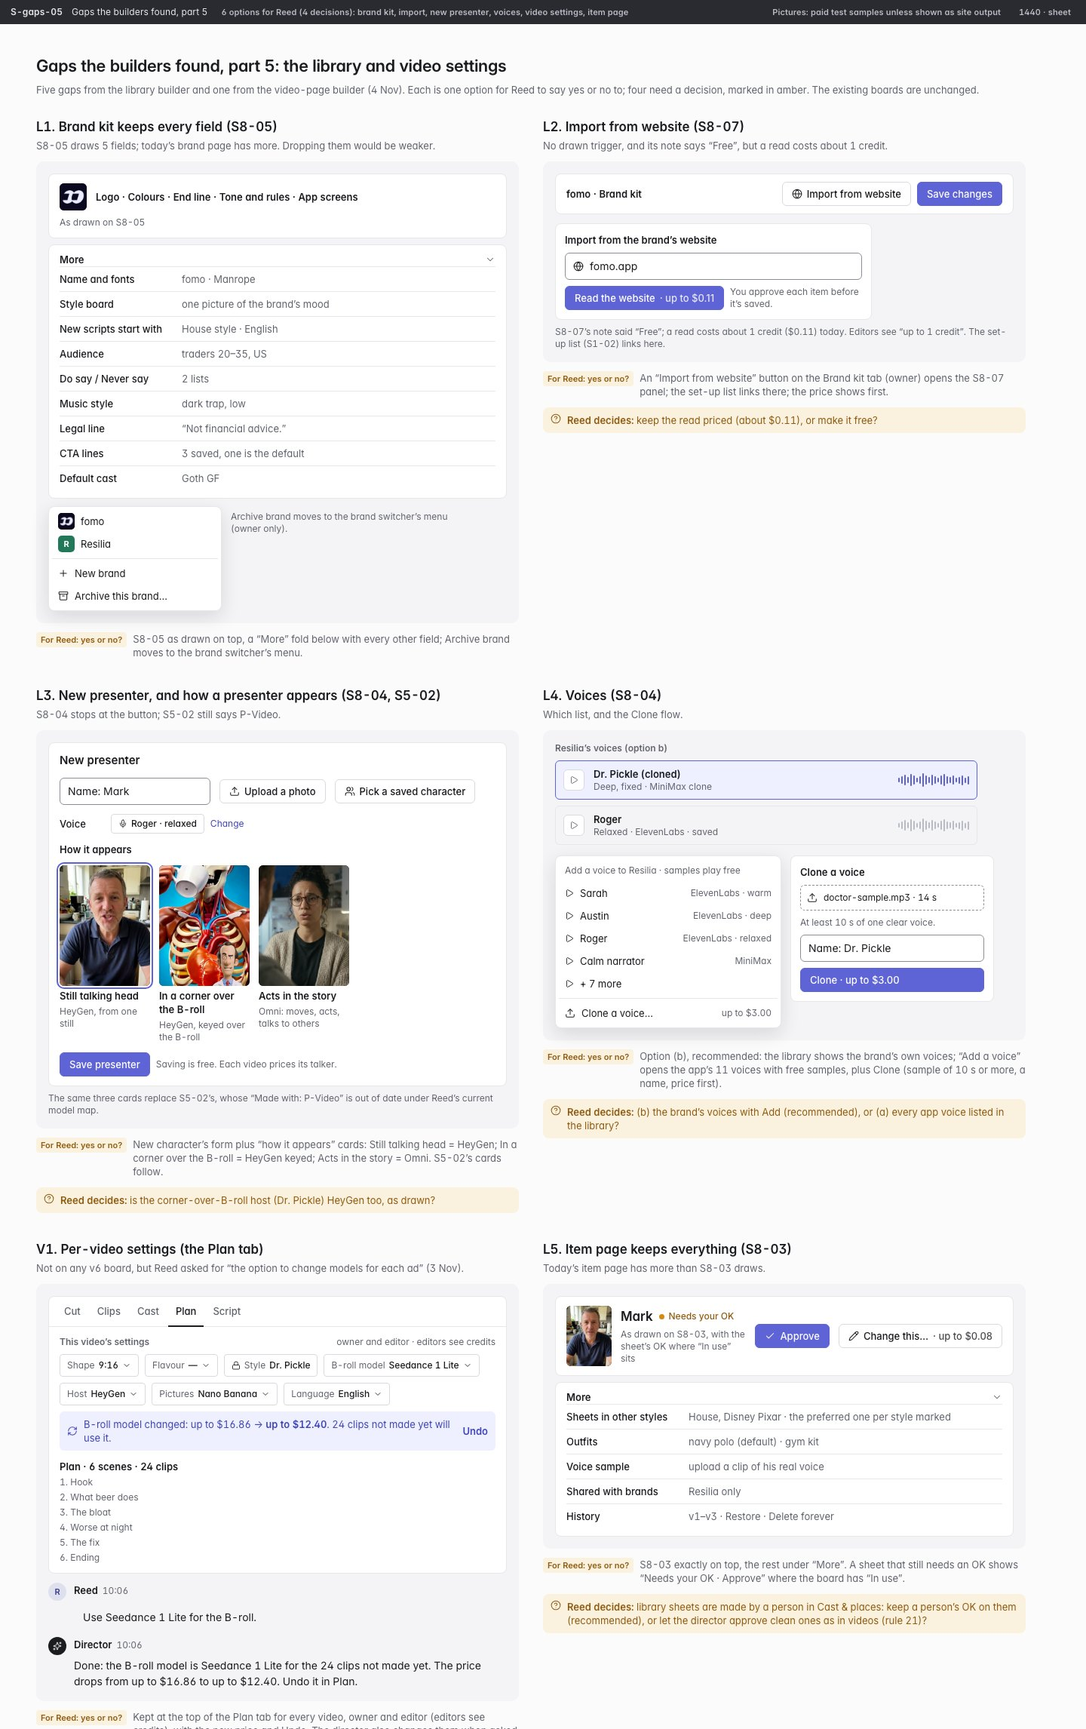
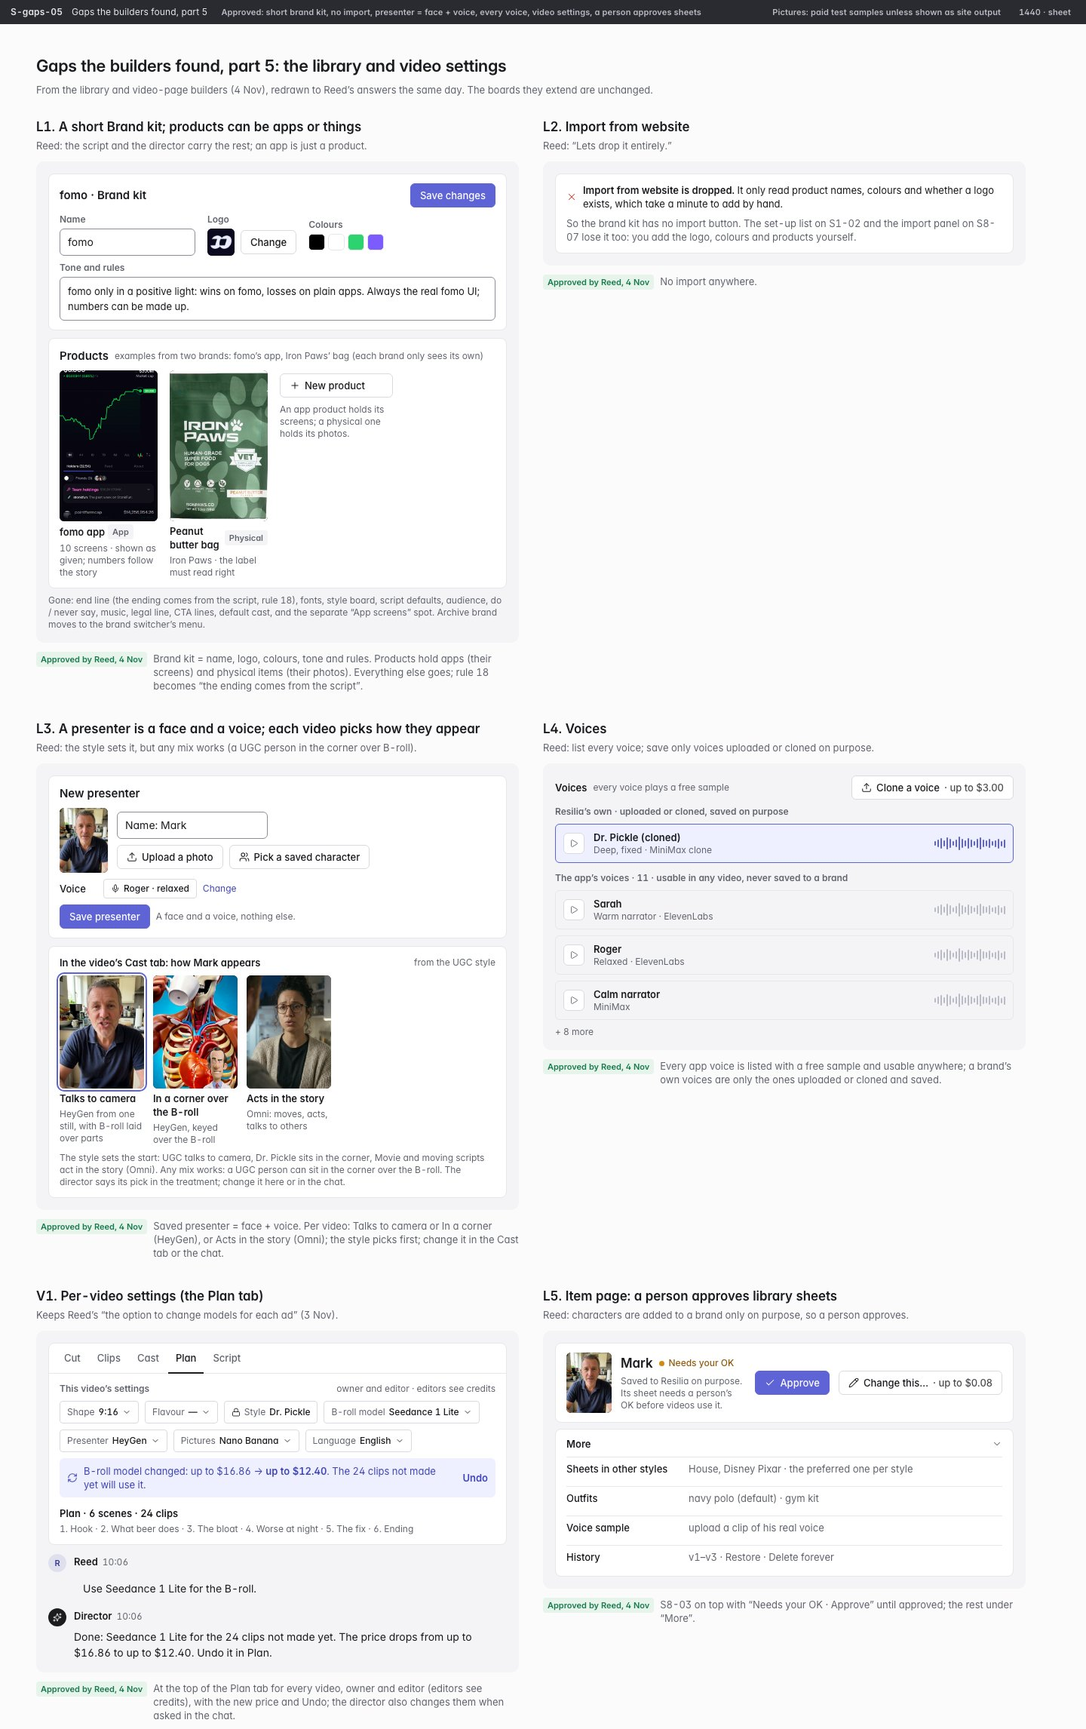
v6: S-gaps-05 redrawn to Reed's answers (short brand kit, products can be apps, no import, presenter = face + voice, every voice, a person approves sheets)

diff --git a/docs/design/v6/src/b_gaps5.py b/docs/design/v6/src/b_gaps5.py
@@ -1,90 +1,86 @@
-"""S-gaps-05: the library builder's gaps (4 Nov), with Reed's decisions marked. For Reed's yes or no."""
+"""S-gaps-05: the library builder's gaps and per-video settings (4 Nov), as Reed decided them."""
 from lib import *
 from b_s4 import voice_row
 
 W = 640
+OK = '<span class="tag ok" style="flex:none">Approved by Reed, 4 Nov</span>'
 
 
-def cell(n, title, ask, drawn, note, q=None):
-    qq = f'<div class="row g2 t-sm start" style="padding:8px 10px;background:var(--warning-soft);border-radius:8px;color:var(--warning)">{ic("circle-question-mark","s14")}<span><b class="w6">Reed decides:</b> {q}</span></div>' if q else ""
+def cell(n, title, ask, drawn, note):
     return f'''<div class="col g3" style="width:{W}px">
       <div class="col g1"><span class="t-lg">{n}. {title}</span><span class="t-sm muted">{ask}</span></div>
       <div style="padding:16px;background:var(--surface-2);border-radius:10px;position:relative">{drawn}</div>
-      <div class="row g2 t-sm start"><span class="tag need" style="flex:none">For Reed: yes or no?</span><span class="muted">{note}</span></div>{qq}</div>'''
+      <div class="row g2 t-sm start">{OK}<span class="muted">{note}</span></div></div>'''
 
 
-def fold(title, rows, open_=True):
-    r = "".join(f'<div class="row g3" style="padding:7px 0;border-top:1px solid var(--border)"><span class="t-sm w5" style="width:150px;flex:none">{k}</span><span class="t-sm muted grow">{v}</span></div>' for k, v in rows)
-    return f'''<div style="background:var(--surface);border:1px solid var(--border);border-radius:8px;padding:10px 14px">
-      <div class="row g2"><span class="t-sm w6">{title}</span><span class="grow"></span>{ic("chevron-down" if open_ else "chevron-right","s14 muted")}</div>{r if open_ else ""}</div>'''
+def card(inner, pad="12px 14px"):
+    return f'<div style="background:var(--surface);border:1px solid var(--border);border-radius:8px;padding:{pad}" class="col g2">{inner}</div>'
 
 
-# L1 Brand kit: drawn part on top, the rest under More
-top = f'''<div style="background:var(--surface);border:1px solid var(--border);border-radius:8px;padding:12px 14px" class="col g2">
-  <div class="row g3">{media("fomo_logo",36,36,tag=False)}<span class="t-sm w6">Logo · Colours · End line · Tone and rules · App screens</span></div><span class="t-xs muted">As drawn on S8-05</span></div>'''
-more = fold("More", [("Name and fonts", "fomo · Manrope"), ("Style board", "one picture of the brand’s mood"), ("New scripts start with", "House style · English"),
-                     ("Audience", "traders 20–35, US"), ("Do say / Never say", "2 lists"), ("Music style", "dark trap, low"), ("Legal line", "“Not financial advice.”"),
-                     ("CTA lines", "3 saved, one is the default"), ("Default cast", "Goth GF")])
-sw = f'''<div class="menu" style="position:static;width:230px;margin-top:10px"><div class="mi">{BRANDS["fomo"]}fomo</div><div class="mi">{BRANDS["Resilia"]}Resilia</div><div class="sepm"></div><div class="mi">{ic("plus","s14")}New brand</div><div class="mi">{ic("archive","s14")}Archive this brand…</div></div>'''
-g1 = f'{top}<div style="height:8px"></div>{more}<div class="row g3 start">{sw}<span class="t-xs muted" style="margin-top:16px;width:300px">Archive brand moves to the brand switcher’s menu (owner only).</span></div>'
+# L1: the Brand kit is short; app screens become a kind of product
+kit = card(f'''<div class="row g2"><span class="t-md w6">fomo · Brand kit</span><span class="grow"></span>{btn("Save changes","primary")}</div>
+  <div class="row g4"><div class="col g1"><span class="t-xs w6 muted">Name</span><div class="input" style="width:180px;color:var(--text)">fomo</div></div>
+    <div class="col g1"><span class="t-xs w6 muted">Logo</span><div class="row g2">{media("fomo_logo",36,36,tag=False)}{btn("Change")}</div></div>
+    <div class="col g1"><span class="t-xs w6 muted">Colours</span><div class="row g1">{"".join(f'<i style="width:22px;height:22px;border-radius:5px;background:{c};border:1px solid var(--border)"></i>' for c in ["#000","#fff","#2dd36f","#7c5cff"])}</div></div></div>
+  <div class="col g1"><span class="t-xs w6 muted">Tone and rules</span><div class="input" style="height:auto;padding:8px 10px;color:var(--text);font-size:13px">fomo only in a positive light: wins on fomo, losses on plain apps. Always the real fomo UI; numbers can be made up.</div></div>''')
+prods = card(f'''<div class="row g2"><span class="t-md w6">Products</span><span class="t-xs muted">examples from two brands: fomo’s app, Iron Paws’ bag (each brand only sees its own)</span></div>
+  <div class="row g4 start">
+    <div class="col g1" style="width:130px">{media("fomo_token-up",130,200,tag=False)}<div class="row g1"><span class="t-sm w6">fomo app</span><span class="tag n">App</span></div><span class="t-xs muted">10 screens · shown as given; numbers follow the story</span></div>
+    <div class="col g1" style="width:130px">{media("ip_bag_pb",130,200,tag=False)}<div class="row g1"><span class="t-sm w6">Peanut butter bag</span><span class="tag n">Physical</span></div><span class="t-xs muted">Iron Paws · the label must read right</span></div>
+    <div class="col g2" style="margin-top:4px">{btn("New product","","plus")}<span class="t-xs muted" style="width:150px">An app product holds its screens; a physical one holds its photos.</span></div></div>''')
+g1 = f'''{kit}<div style="height:10px"></div>{prods}
+  <span class="t-xs muted" style="display:block;margin-top:8px">Gone: end line (the ending comes from the script, rule 18), fonts, style board, script defaults, audience, do / never say, music, legal line, CTA lines, default cast, and the separate “App screens” spot. Archive brand moves to the brand switcher’s menu.</span>'''
 
-# L2 Import from website
-g2 = f'''<div style="background:var(--surface);border:1px solid var(--border);border-radius:8px;padding:10px 14px" class="row g2">
-  <span class="t-sm w6">fomo · Brand kit</span><span class="grow"></span>{btn("Import from website", "", "globe")}{btn("Save changes", "primary")}</div>
-  <div class="col g2" style="margin-top:12px;width:420px;background:var(--surface);border:1px solid var(--border);border-radius:8px;padding:12px">
-  <span class="t-sm w6">Import from the brand’s website</span><div class="input" style="color:var(--text)">{ic("globe","s14")}fomo.app</div>
-  <div class="row g2">{btn("Read the website", "primary", None, "$0.11")}<span class="t-xs muted">You approve each item before it’s saved.</span></div></div>
-  <span class="t-xs muted" style="display:block;margin-top:8px">S8-07’s note said “Free”; a read costs about 1 credit ($0.11) today. Editors see “up to 1 credit”. The set-up list (S1-02) links here.</span>'''
+# L2: Import from website is dropped
+g2 = card(f'''<div class="row g2 t-sm">{ic("x","s14 bad-t")}<span><b class="w6">Import from website is dropped.</b> It only read product names, colours and whether a logo exists, which take a minute to add by hand.</span></div>
+  <span class="t-sm muted">So the brand kit has no import button. The set-up list on S1-02 and the import panel on S8-07 lose it too: you add the logo, colours and products yourself.</span>''')
 
-# L3 New presenter, and S5-02's "how it appears" against the model map
-ap = [("ugc_2", "Still talking head", "HeyGen, from one still"), ("drp_2", "In a corner over the B-roll", "HeyGen, keyed over the B-roll"), ("skit_3", "Acts in the story", "Omni: moves, acts, talks to others")]
-apc = "".join(f'<div class="col g1" style="width:120px">{media(i,120,160,tag=False,cls="sel" if n == 0 else "")}<span class="t-sm w6">{t}</span><span class="t-xs muted">{s}</span></div>' for n, (i, t, s) in enumerate(ap))
-g3 = f'''<div style="background:var(--surface);border:1px solid var(--border);border-radius:8px;padding:12px 14px" class="col g3">
-  <span class="t-md w6">New presenter</span>
-  <div class="row g3"><div class="input" style="width:200px;color:var(--text)">Name: Mark</div>{btn("Upload a photo","","upload")}{btn("Pick a saved character","","users")}</div>
-  <div class="row g2"><span class="t-sm w5" style="width:60px">Voice</span>{chip("Roger · relaxed","", "mic")}<span class="t-xs accent-t">Change</span></div>
-  <span class="t-sm w6">How it appears</span><div class="row g3 start">{apc}</div>
-  <div class="row g2">{btn("Save presenter","primary")}<span class="t-xs muted">Saving is free. Each video prices its talker.</span></div></div>
-  <span class="t-xs muted" style="display:block;margin-top:8px">The same three cards replace S5-02’s, whose “Made with: P-Video” is out of date under Reed’s current model map.</span>'''
+# L3: a saved presenter is a face and a voice; each video picks how they appear
+pres = card(f'''<span class="t-md w6">New presenter</span>
+  <div class="row g3">{media("still_ugc_still",64,86,tag=False)}<div class="col g2"><div class="input" style="width:200px;color:var(--text)">Name: Mark</div>
+    <div class="row g2">{btn("Upload a photo","","upload")}{btn("Pick a saved character","","users")}</div></div></div>
+  <div class="row g2"><span class="t-sm w5" style="width:50px">Voice</span>{chip("Roger · relaxed", None, "mic")}<span class="t-xs accent-t">Change</span></div>
+  <div class="row g2">{btn("Save presenter","primary")}<span class="t-xs muted">A face and a voice, nothing else.</span></div>''')
+ap = [("ugc_2", "Talks to camera", "HeyGen from one still, with B-roll laid over parts", True), ("drp_2", "In a corner over the B-roll", "HeyGen, keyed over the B-roll", False), ("skit_3", "Acts in the story", "Omni: moves, acts, talks to others", False)]
+apc = "".join(f'<div class="col g1" style="width:112px">{media(i,112,150,tag=False,cls="sel" if s else "")}<span class="t-sm w6">{t}</span><span class="t-xs muted">{d}</span></div>' for i, t, d, s in ap)
+per_video = card(f'''<div class="row g2"><span class="t-sm w6">In the video’s Cast tab: how Mark appears</span><span class="grow"></span><span class="t-xs muted">from the UGC style</span></div>
+  <div class="row g3 start">{apc}</div>
+  <span class="t-xs muted">The style sets the start: UGC talks to camera, Dr. Pickle sits in the corner, Movie and moving scripts act in the story (Omni). Any mix works: a UGC person can sit in the corner over the B-roll. The director says its pick in the treatment; change it here or in the chat.</span>''')
+g3 = f'{pres}<div style="height:10px"></div>{per_video}'
 
-# L4 Voices: the brand's own, with Add from the app's list, and Clone
-add = f'''<div class="menu" style="position:static;width:300px"><div class="mi"><span class="t-xs muted">Add a voice to Resilia · samples play free</span></div>
-  {"".join(f'<div class="mi">{ic("play","s12")}<span class="grow">{n}</span><span class="t-xs muted">{p}</span></div>' for n, p in [("Sarah", "ElevenLabs · warm"), ("Austin", "ElevenLabs · deep"), ("Roger", "ElevenLabs · relaxed"), ("Calm narrator", "MiniMax"), ("+ 7 more", "")])}
-  <div class="sepm"></div><div class="mi">{ic("upload","s14")}Clone a voice…<span class="grow"></span><span class="t-xs muted">up to $3.00</span></div></div>'''
-clone = f'''<div class="col g2" style="width:270px;background:var(--surface);border:1px solid var(--border);border-radius:8px;padding:12px"><span class="t-sm w6">Clone a voice</span>
-  <div class="row g2" style="padding:8px;border:1px dashed var(--border-strong);border-radius:6px">{ic("upload","s14")}<span class="t-xs">doctor-sample.mp3 · 14 s</span></div>
-  <span class="t-xs muted">At least 10 s of one clear voice.</span><div class="input" style="color:var(--text)">Name: Dr. Pickle</div>
-  {btn("Clone · up to $3.00","primary")}</div>'''
-g4 = f'''<div class="col g2"><span class="t-xs w6 muted">Resilia’s voices (option b)</span><div class="col g2" style="width:560px">{voice_row("Dr. Pickle (cloned)", "Deep, fixed · MiniMax clone", True)}{voice_row("Roger", "Relaxed · ElevenLabs · saved")}</div>
-  <div class="row g3 start" style="margin-top:6px">{add}{clone}</div></div>'''
+# L4: every voice listed; only uploaded or cloned voices are the brand's
+g4 = f'''<div class="col g2"><div class="row g2"><span class="t-sm w6">Voices</span><span class="t-xs muted">every voice plays a free sample</span><span class="grow"></span>{btn("Clone a voice","","upload","$3.00")}</div>
+  <span class="t-xs w6 muted">Resilia’s own · uploaded or cloned, saved on purpose</span>{voice_row("Dr. Pickle (cloned)", "Deep, fixed · MiniMax clone", True)}
+  <span class="t-xs w6 muted" style="margin-top:4px">The app’s voices · 11 · usable in any video, never saved to a brand</span>
+  {voice_row("Sarah", "Warm narrator · ElevenLabs")}{voice_row("Roger", "Relaxed · ElevenLabs")}{voice_row("Calm narrator", "MiniMax")}<span class="t-xs muted">+ 8 more</span></div>'''
 
-# L5 Item page: S8-03 on top, More below; the sheet's OK
-g5 = f'''<div style="background:var(--surface);border:1px solid var(--border);border-radius:8px;padding:12px 14px" class="row g3">{media("still_ugc_still",60,80,tag=False)}
-  <div class="col g1 grow"><div class="row g2"><span class="t-lg">Mark</span>{status("need","Needs your OK")}</div><span class="t-xs muted">As drawn on S8-03, with the sheet’s OK where “In use” sits</span></div>{btn("Approve","primary","check")}{btn("Change this…","","pencil","$0.08")}</div>
-  <div style="height:8px"></div>{fold("More", [("Sheets in other styles", "House, Disney Pixar · the preferred one per style marked"), ("Outfits", "navy polo (default) · gym kit"), ("Voice sample", "upload a clip of his real voice"), ("Shared with brands", "Resilia only"), ("History", "v1–v3 · Restore · Delete forever")])}'''
 
-# V1 Per-video settings at the top of the Plan tab
+# V1: per-video settings at the top of the Plan tab
 def sel(k, v, lock=False):
     return f'<span class="chip" style="height:30px">{ic("lock","s12") if lock else ""}<span class="k">{k}</span> {v} {"" if lock else ic("chevron-down","s12")}</span>'
 
 
-settings = f'''<div style="background:var(--surface);border:1px solid var(--border);border-radius:8px;overflow:hidden">
+g6 = f'''<div style="background:var(--surface);border:1px solid var(--border);border-radius:8px;overflow:hidden">
   <div class="tabs" style="padding:0 10px"><span>Cut</span><span>Clips</span><span>Cast</span><span class="on">Plan</span><span>Script</span></div>
   <div style="padding:12px 14px" class="col g2"><div class="row g2"><span class="t-xs w6 muted">This video’s settings</span><span class="grow"></span><span class="t-xs muted">owner and editor · editors see credits</span></div>
-  <div class="row g2 wrap">{sel("Shape","9:16")}{sel("Flavour","—")}{sel("Style","Dr. Pickle",True)}{sel("B-roll model","Seedance 1 Lite")}{sel("Host","HeyGen")}{sel("Pictures","Nano Banana")}{sel("Language","English")}</div>
-  <div class="row g2 t-sm" style="padding:8px 10px;background:var(--accent-soft);color:var(--accent-text);border-radius:6px">{ic("refresh-cw","s14")}<span>B-roll model changed: up to $16.86 → <b class="w6">up to $12.40</b>. 24 clips not made yet will use it.</span><span class="grow"></span><span class="w6">Undo</span></div></div>
-  <div style="padding:0 14px 12px" class="col g1"><span class="t-sm w6">Plan · 6 scenes · 24 clips</span>{"".join(f'<span class="t-xs muted">{i+1}. {n}</span>' for i, n in enumerate(["Hook", "What beer does", "The bloat", "Worse at night", "The fix", "Ending"]))}</div></div>
-  <div class="col g2" style="margin-top:12px">{m_me("Use Seedance 1 Lite for the B-roll.", "10:06", "Reed", "R")}{m_dir('<p>Done: the B-roll model is Seedance 1 Lite for the 24 clips not made yet. The price drops from up to $16.86 to up to $12.40. Undo it in Plan.</p>', "10:06")}</div>'''
-g6 = settings
+  <div class="row g2 wrap">{sel("Shape","9:16")}{sel("Flavour","—")}{sel("Style","Dr. Pickle",True)}{sel("B-roll model","Seedance 1 Lite")}{sel("Presenter","HeyGen")}{sel("Pictures","Nano Banana")}{sel("Language","English")}</div>
+  <div class="row g2 t-sm" style="padding:8px 10px;background:var(--accent-soft);color:var(--accent-text);border-radius:6px">{ic("refresh-cw","s14")}<span>B-roll model changed: up to $16.86 → <b class="w6">up to $12.40</b>. The 24 clips not made yet will use it.</span><span class="grow"></span><span class="w6">Undo</span></div></div>
+  <div style="padding:0 14px 12px" class="col g1"><span class="t-sm w6">Plan · 6 scenes · 24 clips</span><span class="t-xs muted">1. Hook · 2. What beer does · 3. The bloat · 4. Worse at night · 5. The fix · 6. Ending</span></div></div>
+  <div class="col g2" style="margin-top:12px">{m_me("Use Seedance 1 Lite for the B-roll.", "10:06", "Reed", "R")}{m_dir('<p>Done: Seedance 1 Lite for the 24 clips not made yet. The price drops from up to $16.86 to up to $12.40. Undo it in Plan.</p>', "10:06")}</div>'''
 
-sheet = f'''<div class="col g2" style="margin-bottom:28px"><span class="t-2xl">Gaps the builders found, part 5: the library and video settings</span><span class="t-sm muted">Five gaps from the library builder and one from the video-page builder (4 Nov). Each is one option for Reed to say yes or no to; four need a decision, marked in amber. The existing boards are unchanged.</span></div>
+# L5: a person approves library sheets
+more_rows = "".join(f'<div class="row g3" style="padding:6px 0;border-top:1px solid var(--border)"><span class="t-sm w5" style="width:150px">{k}</span><span class="t-sm muted">{v}</span></div>' for k, v in [("Sheets in other styles", "House, Disney Pixar · the preferred one per style"), ("Outfits", "navy polo (default) · gym kit"), ("Voice sample", "upload a clip of his real voice"), ("History", "v1–v3 · Restore · Delete forever")])
+top5 = card(f'''<div class="row g3">{media("still_ugc_still",60,80,tag=False)}<div class="col g1 grow"><div class="row g2"><span class="t-lg">Mark</span>{status("need","Needs your OK")}</div><span class="t-xs muted">Saved to Resilia on purpose. Its sheet needs a person’s OK before videos use it.</span></div>{btn("Approve","primary","check")}{btn("Change this…","","pencil","$0.08")}</div>''')
+g5 = f'''{top5}<div style="height:8px"></div>{card('<div class="row g2"><span class="t-sm w6">More</span><span class="grow"></span>' + ic("chevron-down","s14 muted") + '</div>' + more_rows, "10px 14px")}'''
+
+sheet = f'''<div class="col g2" style="margin-bottom:28px"><span class="t-2xl">Gaps the builders found, part 5: the library and video settings</span><span class="t-sm muted">From the library and video-page builders (4 Nov), redrawn to Reed’s answers the same day. The boards they extend are unchanged.</span></div>
   <div class="row g8 wrap start" style="row-gap:36px">
-  {cell("L1", "Brand kit keeps every field (S8-05)", "S8-05 draws 5 fields; today’s brand page has more. Dropping them would be weaker.", g1, "S8-05 as drawn on top, a “More” fold below with every other field; Archive brand moves to the brand switcher’s menu.")}
-  {cell("L2", "Import from website (S8-07)", "No drawn trigger, and its note says “Free”, but a read costs about 1 credit.", g2, "An “Import from website” button on the Brand kit tab (owner) opens the S8-07 panel; the set-up list links there; the price shows first.", "keep the read priced (about $0.11), or make it free?")}
-  {cell("L3", "New presenter, and how a presenter appears (S8-04, S5-02)", "S8-04 stops at the button; S5-02 still says P-Video.", g3, "New character’s form plus “how it appears” cards: Still talking head = HeyGen; In a corner over the B-roll = HeyGen keyed; Acts in the story = Omni. S5-02’s cards follow.", "is the corner-over-B-roll host (Dr. Pickle) HeyGen too, as drawn?")}
-  {cell("L4", "Voices (S8-04)", "Which list, and the Clone flow.", g4, "Option (b), recommended: the library shows the brand’s own voices; “Add a voice” opens the app’s 11 voices with free samples, plus Clone (sample of 10 s or more, a name, price first).", "(b) the brand’s voices with Add (recommended), or (a) every app voice listed in the library?")}
-  {cell("V1", "Per-video settings (the Plan tab)", "Not on any v6 board, but Reed asked for “the option to change models for each ad” (3 Nov).", g6, "Kept at the top of the Plan tab for every video, owner and editor (editors see credits), with the new price and Undo. The director also changes them when asked in the chat, and says the new price.")}
-  {cell("L5", "Item page keeps everything (S8-03)", "Today’s item page has more than S8-03 draws.", g5, "S8-03 exactly on top, the rest under “More”. A sheet that still needs an OK shows “Needs your OK · Approve” where the board has “In use”.", "library sheets are made by a person in Cast & places: keep a person’s OK on them (recommended), or let the director approve clean ones as in videos (rule 21)?")}
+  {cell("L1", "A short Brand kit; products can be apps or things", "Reed: the script and the director carry the rest; an app is just a product.", g1, "Brand kit = name, logo, colours, tone and rules. Products hold apps (their screens) and physical items (their photos). Everything else goes; rule 18 becomes “the ending comes from the script”.")}
+  {cell("L2", "Import from website", "Reed: “Lets drop it entirely.”", g2, "No import anywhere.")}
+  {cell("L3", "A presenter is a face and a voice; each video picks how they appear", "Reed: the style sets it, but any mix works (a UGC person in the corner over B-roll).", g3, "Saved presenter = face + voice. Per video: Talks to camera or In a corner (HeyGen), or Acts in the story (Omni); the style picks first; change it in the Cast tab or the chat.")}
+  {cell("L4", "Voices", "Reed: list every voice; save only voices uploaded or cloned on purpose.", g4, "Every app voice is listed with a free sample and usable anywhere; a brand’s own voices are only the ones uploaded or cloned and saved.")}
+  {cell("V1", "Per-video settings (the Plan tab)", "Keeps Reed’s “the option to change models for each ad” (3 Nov).", g6, "At the top of the Plan tab for every video, owner and editor (editors see credits), with the new price and Undo; the director also changes them when asked in the chat.")}
+  {cell("L5", "Item page: a person approves library sheets", "Reed: characters are added to a brand only on purpose, so a person approves.", g5, "S8-03 on top with “Needs your OK · Approve” until approved; the rest under “More”.")}
   </div>'''
 
-board("S-gaps-05", "Gaps the builders found, part 5", "6 options for Reed (4 decisions): brand kit, import, new presenter, voices, video settings, item page", sheet, "s", h=2260)
+board("S-gaps-05", "Gaps the builders found, part 5", "Approved: short brand kit, no import, presenter = face + voice, every voice, video settings, a person approves sheets", sheet, "s", h=2260)
